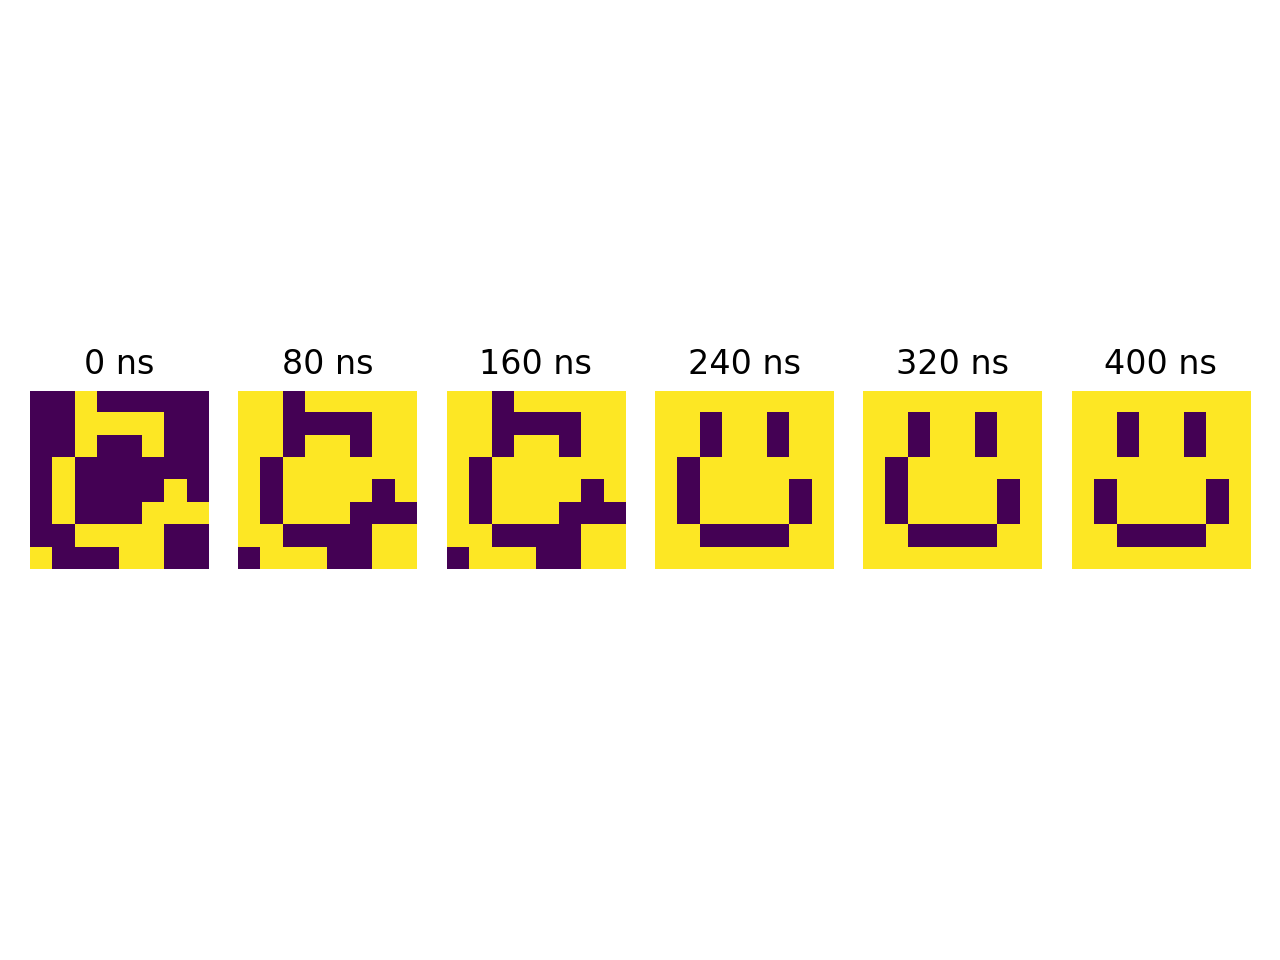
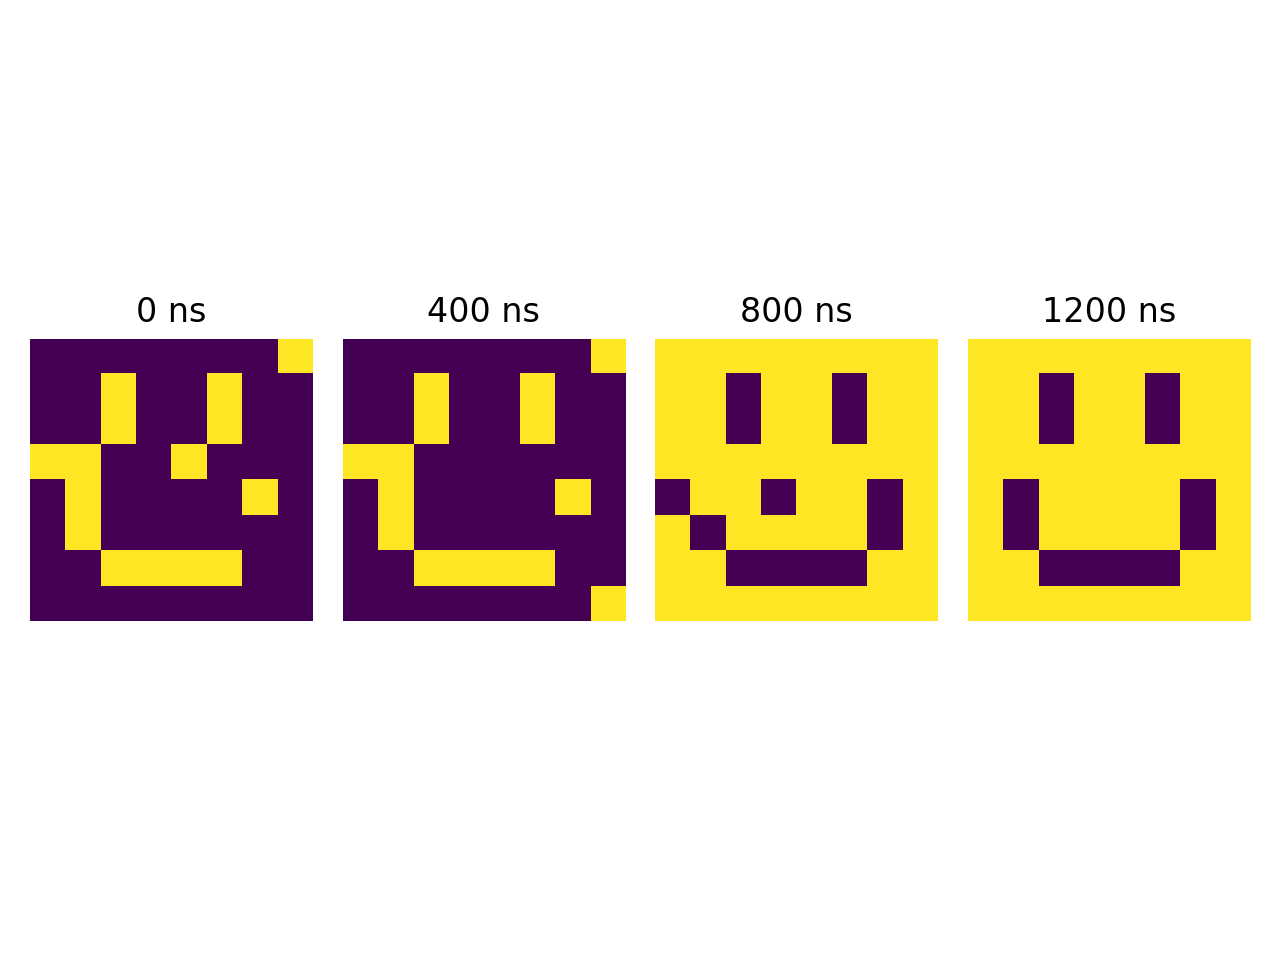
New hopfield images for latch-free design

Changed region(s): [[0.0, 0.3125, 1.0, 0.6562]]

diff --git a/hopfield/hopfield_settle.py b/hopfield/hopfield_settle.py
@@ -48,7 +48,7 @@ for i in range(64):
 ising = Ising(weights, digital_ising_size = 64, use_fpga = True)
 
 # DIMPLE params
-cycles = [20, 40, 60, 80, 100]
+cycles = [100, 200, 300]
 
 # Use DIMPLE to recall smiley in steps
 smilies_out = [smiley_noise]
